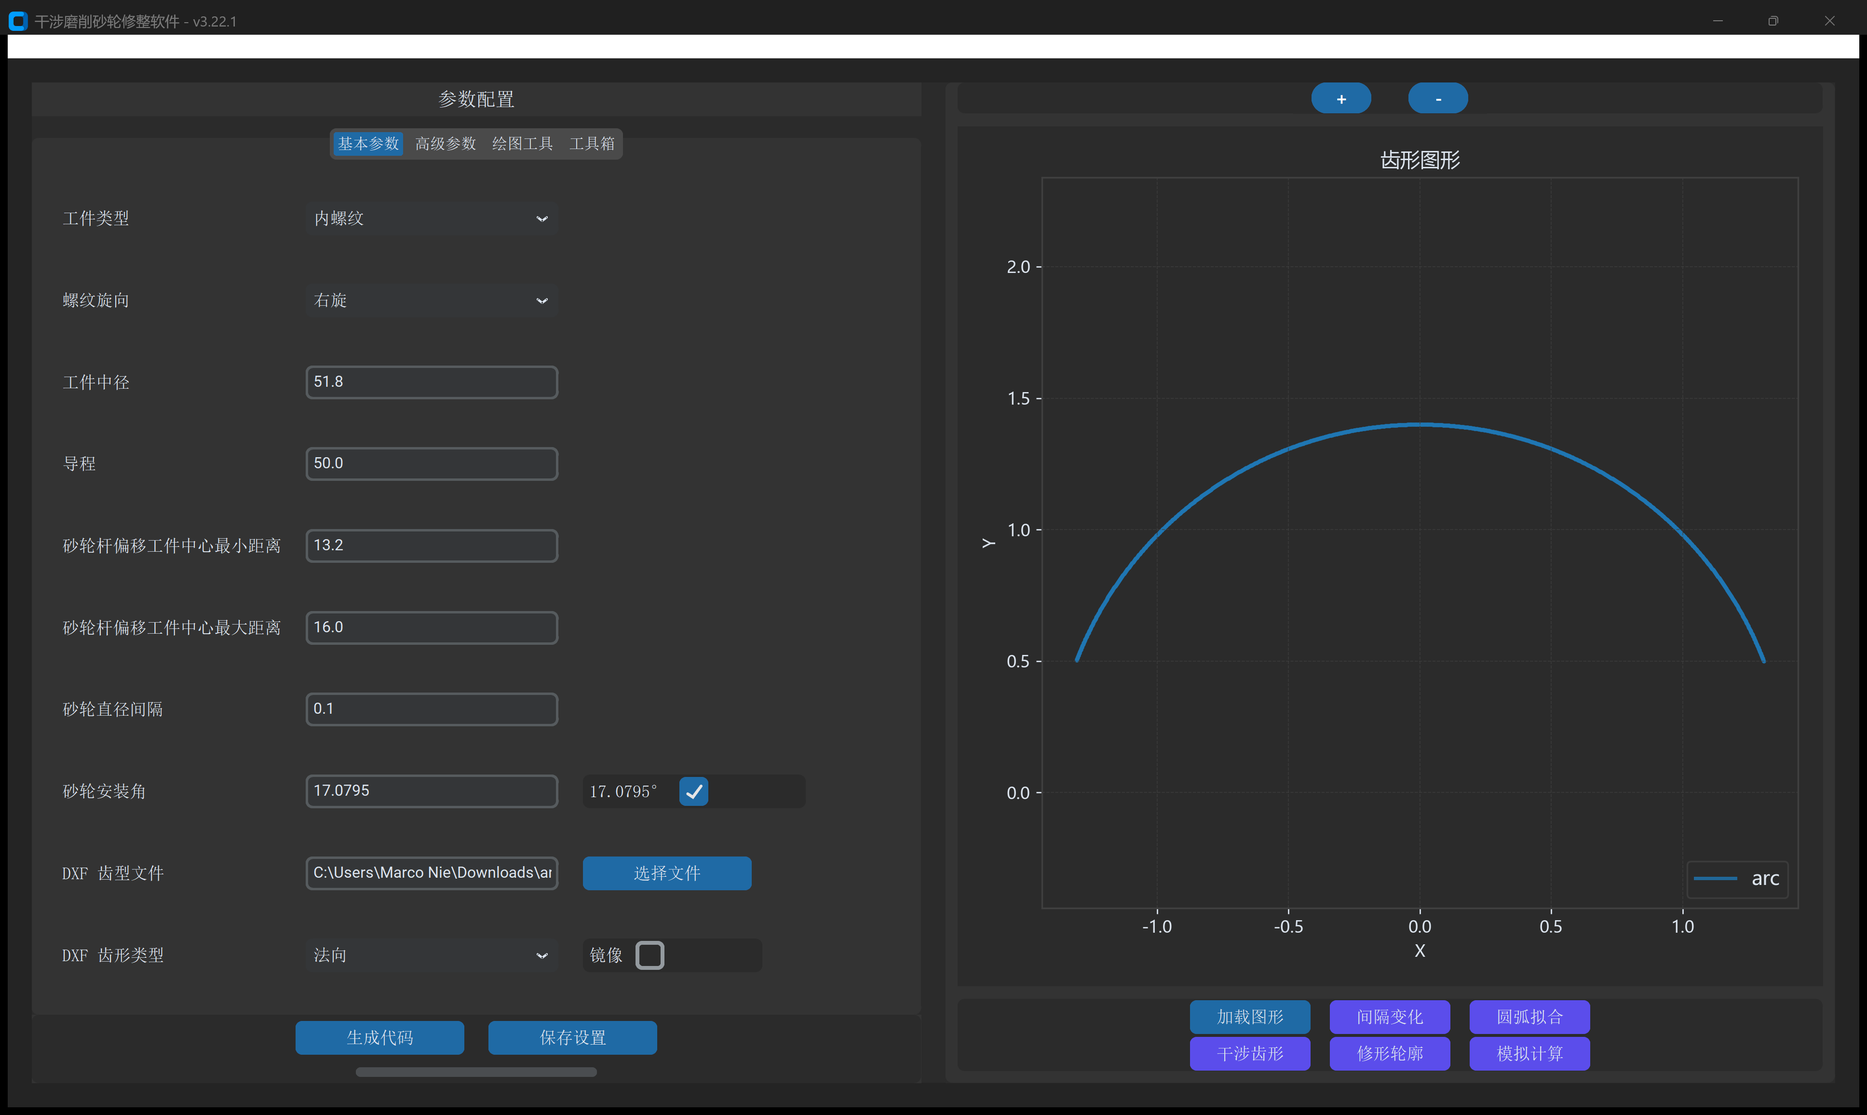
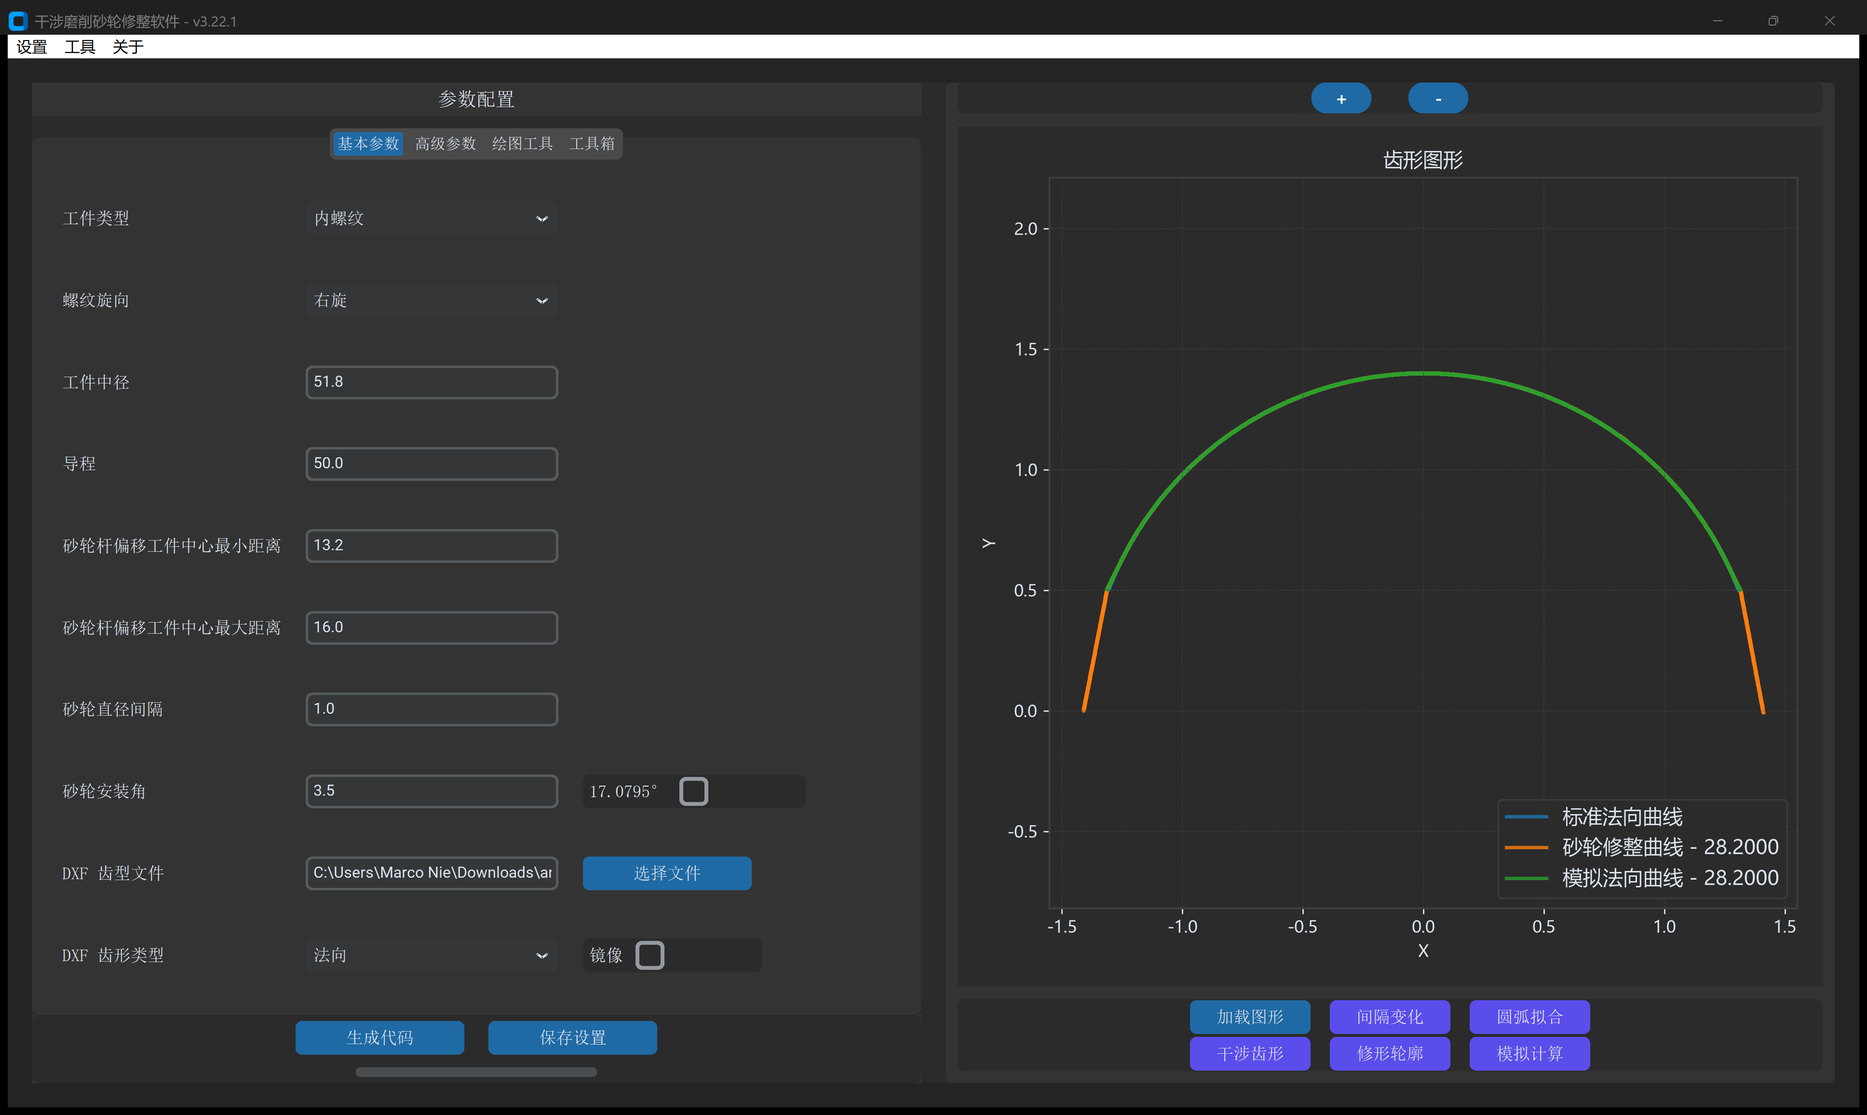
fix(docs): fix canvas views images and align descriptions with real IGD software calculations
- Fix canvas placeholder '文件不存在' in ui_overview_annotated.png by configuring authentic double arc parameters (mid_dia=51.8, work_lead=50.0, gan_angle=3.5)
- Correct callout coordinates and badges in ui_overview_annotated.png to prevent text collision
- Re-capture real, distinct simulation plots for all 6 canvas views (view_1 to view_6)
- Align canvas_views.md text and check points 1:1 with genuine plot legends, DXF files, and G2/G3 arc fitting data
- Update ui_overview.md to accurately document IGD custom canvas controls and 7 core layout zones

diff --git a/tools/capture_views_and_overview.py b/tools/capture_views_and_overview.py
@@ -1,0 +1,169 @@
+import sys
+import os
+import time
+import threading
+import json
+import ctypes
+from ctypes import wintypes
+import traceback
+import numpy as np
+from PIL import Image, ImageDraw, ImageFont
+
+IGD_DIR = r"C:\Users\Marco Nie\Development\WorkProgram\InterferenceGrindingDressing"
+GUIDE_DIR = r"C:\Users\Marco Nie\Development\WorkProgram\InterferenceGrindingDressing-UserGuide"
+IMAGES_DIR = os.path.join(GUIDE_DIR, "images")
+USER_IGD_DIR = os.path.expanduser("~/.igd")
+PART_DIR = os.path.join(USER_IGD_DIR, "PartsLibrary", "五分厂GQ51.8X50")
+
+os.chdir(IGD_DIR)
+sys.path.insert(0, IGD_DIR)
+
+import library.ui_config as uic
+import library.main_window as mw
+
+# Setup config
+with open(os.path.join(PART_DIR, "igd_config_main.json"), "r", encoding="utf-8") as f:
+    cfg = json.load(f)
+
+cfg["mid_dia"] = 51.8
+cfg["work_lead"] = 50.0
+cfg["gan_angle"] = 3.5
+cfg["step_dia"] = 1.0
+cfg["angle_checkbox_state"] = 0
+cfg["save_path"] = r"C:\Users\Marco Nie\Downloads"
+cfg["dxf_file"] = r"C:\Users\Marco Nie\Downloads\arc.dxf"
+cfg["dresser_r_right"] = 0.98
+cfg["dresser_r_left"] = 0.98
+
+with open(os.path.join(USER_IGD_DIR, "igd_config_main.json"), "w", encoding="utf-8") as f:
+    json.dump(cfg, f, indent=4)
+
+mw.UI_CONFIG = uic.full
+mw.apply_app_theme()
+mw.g_plot_libs_preloaded = True
+
+def capture_window(hwnd, filepath):
+    user32 = ctypes.windll.user32
+    gdi32 = ctypes.windll.gdi32
+    rect = wintypes.RECT()
+    user32.GetWindowRect(hwnd, ctypes.byref(rect))
+    w = rect.right - rect.left
+    h = rect.bottom - rect.top
+    hwndDC = user32.GetWindowDC(hwnd)
+    mfcDC = gdi32.CreateCompatibleDC(hwndDC)
+    saveBitMap = gdi32.CreateCompatibleBitmap(hwndDC, w, h)
+    gdi32.SelectObject(mfcDC, saveBitMap)
+    user32.PrintWindow(hwnd, mfcDC, 2)
+    bmpinfo = bytearray(40)
+    ctypes.c_uint32.from_buffer(bmpinfo, 0).value = 40
+    ctypes.c_int32.from_buffer(bmpinfo, 4).value = w
+    ctypes.c_int32.from_buffer(bmpinfo, 8).value = -h
+    ctypes.c_uint16.from_buffer(bmpinfo, 12).value = 1
+    ctypes.c_uint16.from_buffer(bmpinfo, 14).value = 32
+    ctypes.c_uint32.from_buffer(bmpinfo, 16).value = 0
+    buffer = bytearray(w * h * 4)
+    gdi32.GetDIBits(mfcDC, saveBitMap, 0, h, (ctypes.c_char * len(buffer)).from_buffer(buffer), bytes(bmpinfo), 0)
+    gdi32.DeleteObject(saveBitMap)
+    gdi32.DeleteDC(mfcDC)
+    user32.ReleaseDC(hwnd, hwndDC)
+    
+    img = Image.frombuffer("RGBA", (w, h), buffer, "raw", "BGRA", 0, 1).convert("RGB")
+    img.save(filepath)
+    print(f"Captured {os.path.basename(filepath)} ({w}x{h})", flush=True)
+    return img
+
+def annotate_overview(raw_img_path, out_img_path):
+    im = Image.open(raw_img_path)
+    w, h = im.size
+    target_w = 1920
+    target_h = int(target_w * h / w)
+    im_resized = im.resize((target_w, target_h), Image.Resampling.LANCZOS)
+    draw = ImageDraw.Draw(im_resized)
+    
+    try:
+        font_b = ImageFont.truetype("msyhbd.ttc", 15)
+    except:
+        font_b = ImageFont.load_default()
+
+    # Exact bounding boxes measured on 1920x1146
+    items = [
+        ("① 顶部菜单栏", (12, 38, 300, 68), (18, 12), "#2563eb"),
+        ("② 四大主功能选项卡", (20, 72, 880, 118), (480, 78), "#3b82f6"),
+        ("③ 核心几何与工艺参数配置区", (20, 124, 1060, 1005), (35, 130), "#0284c7"),
+        ("④ 主执行与配置保存按钮", (40, 1015, 1040, 1072), (50, 1022), "#059669"),
+        ("⑤ 加密狗状态与计算进度", (20, 1080, 480, 1135), (25, 1085), "#0d9488"),
+        ("⑥ 交互式矢量绘图画布", (1075, 70, 1905, 1050), (1085, 78), "#dc2626"),
+        ("⑦ 6 大计算结果视图切换栏", (1075, 1055, 1905, 1135), (1085, 1060), "#7c3aed"),
+    ]
+
+    for text, (x1, y1, x2, y2), (px, py), col in items:
+        draw.rounded_rectangle([x1, y1, x2, y2], radius=6, outline=col, width=3)
+        bbox = draw.textbbox((px, py), text, font=font_b)
+        pad_x, pad_y = 8, 4
+        pill_rect = [bbox[0]-pad_x, bbox[1]-pad_y, bbox[2]+pad_x, bbox[3]+pad_y]
+        draw.rounded_rectangle(pill_rect, radius=5, fill="#dc2626", outline="white", width=1)
+        draw.text((px, py), text, fill="white", font=font_b)
+
+    im_resized.save(out_img_path, quality=95)
+    print(f"Saved annotated overview: {out_img_path}", flush=True)
+
+def run():
+    try:
+        print("Waiting for plot window...", flush=True)
+        while not mw.plot_window_loaded:
+            time.sleep(0.1)
+        print("Plot window loaded!", flush=True)
+        time.sleep(1.0)
+        
+        hwnd = ctypes.windll.user32.GetParent(mw.root.winfo_id()) or mw.root.winfo_id()
+        
+        # 1. Switch to Tab 1
+        mw.root.after(0, lambda: mw.tabview.set(mw.current_language["tabview_1"]))
+        time.sleep(0.5)
+        
+        # Fix entry_gan_angle to 3.5
+        mw.entry_gan_angle.delete(0, "end")
+        mw.entry_gan_angle.insert(0, "3.5")
+        if mw.angle_checkbox.get() == 1:
+            mw.angle_checkbox.deselect()
+
+        # 2. Capture all 6 views with real curves
+        views = [
+            ("view_1_load_plot.png", "import_dxf"),
+            ("view_2_interval_change.png", "interval_change"),
+            ("view_3_fit_arcs.png", "fit_arcs"),
+            ("view_4_interference.png", "interference"),
+            ("view_5_dress_plot.png", "dress"),
+            ("view_6_simulate_plot.png", "simulator_calc"),
+        ]
+        
+        for fname, action in views:
+            print(f"Plotting {action} -> {fname}...", flush=True)
+            evt = threading.Event()
+            mw.root.after(0, lambda a=action: mw.plot_window_1(a, on_complete=evt.set))
+            ok = evt.wait(6.0)
+            print(f"  {action} finished (ok={ok})", flush=True)
+            time.sleep(0.8)
+            capture_window(hwnd, os.path.join(IMAGES_DIR, fname))
+
+        # 3. ui_tab1_basic_params.png (with simulator_calc)
+        print("Capturing ui_tab1_basic_params.png...", flush=True)
+        capture_window(hwnd, os.path.join(IMAGES_DIR, "ui_tab1_basic_params.png"))
+
+        # 4. ui_overview_annotated.png
+        print("Creating ui_overview_annotated.png...", flush=True)
+        clean_path = os.path.join(IMAGES_DIR, "clean_overview_temp.png")
+        capture_window(hwnd, clean_path)
+        annotate_overview(clean_path, os.path.join(IMAGES_DIR, "ui_overview_annotated.png"))
+        if os.path.exists(clean_path):
+            os.remove(clean_path)
+
+        print("ALL 6 VIEWS AND OVERVIEW CAPTURED SUCCESSFULLY!", flush=True)
+    except Exception as e:
+        print("ERROR IN RUN:", flush=True)
+        traceback.print_exc()
+    finally:
+        mw.root.after(200, mw.root.destroy)
+
+threading.Thread(target=run, daemon=True).start()
+mw.show_main_window()

diff --git a/4_plots_and_outputs/canvas_views.md b/4_plots_and_outputs/canvas_views.md
@@ -1,59 +1,68 @@
 # 4.1 右侧交互画布与 6 大计算结果视图详解
 
-每次在 `基本参数` 或 `高级参数` 中执行 **`生成代码`** 成功后，右下角的 6 个结果视图按钮将依次激活。强烈建议操作人员按顺序点击检视图形质量，作为上机前的数字化虚拟试磨审核。
+每次在 `基本参数` 或 `高级参数` 中执行 **`生成代码`** 成功后，右下角的 6 个结果视图按钮将依次激活。强烈建议工艺人员按顺序点击检视图形质量，作为上机前的数字化虚拟试磨审核。
 
 ---
 
 ## 视图 1：`加载图形`（检查导入的目标齿形）
 
-显示软件从 DXF 文件中解析出的目标截面曲线：
+直接解析 `基本参数` 中指定的 DXF 齿型文件（如 `arc.dxf`），在画布上绘制目标截面轮廓：
 
 ![视图 1：加载图形实机计算截图](../images/view_1_load_plot.png)
 
+- **显示要素与图例**：
+  - 图例标注为 DXF 文件名（如 `arc`）。
+  - 横轴 $X$（对称齿槽以 $X=0$ 为中心），纵轴 $Y$（工件分度圆/中径基准线 $Y=0$）。
 - **检查要点**：
-  - 确认曲线光滑完整、无首尾悬空折返或多余图元。
-  - 核验 $Y=0$ 位于中径基准线，对称齿槽以 $X=0$ 为中心。
-  - 对于非对称型线，确认左右朝向符合机床装夹方向（必要时勾选 `镜像`）。
+  - **曲线连续性**：确认齿形光滑完整，无自交、反折、多余碎线或悬空断裂。
+  - **基准对齐**：核验 $Y=0$ 处齿槽宽度与图纸中径公称尺寸一致。
+  - **装夹朝向**：对于非对称齿槽，确认型线左右方向与机床实际装夹对齐（必要时在参数面板勾选 `镜像`）。
+  - **双圆弧角度标注**：对于双圆弧齿型，系统支持在画布上叠加原点夹角标注，直观校验法向接触角与齿形对称性。
 
 ---
 
 ## 视图 2：`间隔变化`（砂轮全寿命周期修整廓形族）
 
-展示由最大工作砂轮直径至最小报废砂轮直径之间，每隔一个 `砂轮直径间隔` 计算出的全套砂轮修整截面曲线簇：
+载入多直径计算生成的误差变化量数据（`dxf_compare_two_dia_errors.dxf`），展示砂轮外径随磨损减小时修整截面法向变化规律：
 
 ![视图 2：间隔变化实机计算截图](../images/view_2_interval_change.png)
 
+- **显示要素与图例**：
+  - 图例标注为 `直径间隔 1.0 修整曲线变化量`（根据设定的 `砂轮直径间隔` 自动格式化）。
+  - 纵轴反映相邻砂轮直径档位之间的法向形状修正增量。
 - **检查要点**：
-  - 观察各阶梯曲线是否呈现平顺、均匀的曲率收敛。
-  - 最外侧曲线对应新砂轮，最内侧红色实线对应最小砂轮极限。
-  - 检查内侧红线是否存在尖锐奇异点（若有，说明最小砂轮直径超出了无干涉极限）。
+  - **平滑收敛性**：变化量曲线全程平顺光滑，无突变奇异尖峰或剧烈震荡。
+  - **修正灵敏度**：变化量数值直观反映了大导程螺旋空间包络在不同砂轮直径下的干涉敏感程度。
 
 ---
 
-## 视图 3：`圆弧拟合`（G2/G3 圆弧逼近与法向残差分布）
+## 视图 3：`圆弧拟合`（G2/G3 相切圆弧逼近与分段结构）
 
-采用上下双子图结构对自适应双切圆弧插补精度进行严密审核：
+载入数控插补拟合文件（`dxf_dress_contour_curve_fit_arcs_*.dxf`），将连续复杂的自由修整轮廓智能拆解为机床可直接执行的相切圆弧与直线段：
 
 ![视图 3：圆弧拟合实机计算截图](../images/view_3_fit_arcs.png)
 
-- **上方子图（圆弧插补段分布）**：
-  - 红色与蓝色交替标示各段 G2/G3 相切圆弧，蓝点表示圆弧之间的平滑切点（G 代码节点）。
-  - 拐弯曲率剧烈处自动加密，平缓处自动稀疏。
-- **下方子图（法向拟合残差分布）**：
-  - 纵轴单位为微米（$\mu\text{m}$），显示沿齿形横坐标的实际法向拟合误差。
-  - 确认蓝色残差曲线全程落在上下两条红色虚线（设定的 `拟合误差` 公差带，如 $\pm 1\ \mu\text{m}$）内部。
+- **显示要素与图例**：
+  - 各圆弧段以鲜明多色独立着色呈现，并在图例中逐一列出各段的精确拟合半径（如 `R1 = 2.3796`、`R2 = 0.9864`、`R3 = 2.3799`、`R4 = 3.8054`、`R5 = 2.3058`、`R6 = 0.9889` 以及 `直线段 1`、`直线段 2`、`直线段 3`）。
+- **检查要点**：
+  - **分段自适应性**：曲率变化剧烈处（齿底过渡区）自动加密圆弧分段，平缓区自动合并为大半径圆弧或直线，兼顾加工精度与加工平顺度。
+  - **相切连续度**：各圆弧段与直线段平滑相切，切点位置无台阶错位。
+  - **残差公差带深度查验**：若需审核微米级法向逼近残差，可查阅计算输出目录中的交互式分析报告 `plot_dress_contour_curve_fit_arcs_*.html` 与参数清单 `info_*.txt`。
 
 ---
 
 ## 视图 4：`干涉齿形`（包络修正后的净砂轮成形截面）
 
-检视经过三维螺旋空间包络方程求解、消除了大导程空间干涉，并叠加了齿端延长与倒圆后的理论净砂轮廓形：
+叠加对比理论工件法向截面与三维螺旋包络计算求解出的净砂轮成形廓形：
 
 ![视图 4：干涉齿形实机计算截图](../images/view_4_interference.png)
 
+- **显示要素与图例**：
+  - **`标准法向曲线`**（工件理论截面轮廓）。
+  - **`砂轮修整曲线 - 28.2000`**（消除大导程空间螺旋干涉后的成形砂轮截面廓形）。
 - **检查要点**：
-  - 用顶部放大镜框选齿根过渡处，确认圆弧过渡光滑相切。
-  - 检视齿高延长高度与内收斜坡平整度。
+  - **包络相切形态**：砂轮截面在有效工作齿深范围内与工件法向齿形保持包络切触。
+  - **齿顶延长与齿根倒圆**：确认齿顶切线延长高度合理，齿根过渡倒圆平滑，确保磨削时既切满全齿深，又不划伤非加工表面。
 
 ---
 
@@ -63,19 +72,25 @@
 
 ![视图 5：修形轮廓实机计算截图](../images/view_5_dress_plot.png)
 
+- **显示要素与图例**：
+  - **`修整轮廓曲线 - 28.2000`**（叠加金刚石修整滚轮半径 $R$ 后的机床数控走刀刀心轨迹）。
+  - **`砂轮修整曲线 - 28.2000`**（带平移矢量的基准砂轮廓形）。
 - **检查要点**：
-  - **红色曲线**：左侧修整轮走刀轨迹。
-  - **蓝色曲线**：右侧修整轮走刀轨迹。
-  - 检查左右两侧走刀在齿顶中心处的交汇过渡，确保无漏修台阶或齿根干涉。
+  - **等距偏移精度**：修整刀心轨迹与砂轮截面全程严格保持滚轮半径（如 $R = 0.98\ \text{mm}$）的法向等距偏移。
+  - **齿槽交汇过渡**：左右两侧走刀路径在齿底/齿顶处交汇顺畅，无逆向交叉或漏修台阶。
 
 ---
 
-## 视图 6：`模拟计算`（机床实际 G 代码走刀轨迹还原）
+## 视图 6：`模拟计算`（数字化全真虚拟试磨复核）
 
-直接解析即将写入 `.SPF` 或 `O2010` 的多阶梯数控代码，还原机床坐标系下的真实走刀路径簇：
+数字化虚拟试磨的核心审核依据，同屏叠加三组关键曲线：
 
 ![视图 6：模拟计算实机计算截图](../images/view_6_simulate_plot.png)
 
+- **显示要素与图例**：
+  - **`标准法向曲线`**：原始工件理论设计轮廓。
+  - **`砂轮修整曲线 - 28.2000`**：计算出的成形砂轮实际修整轮廓。
+  - **`模拟法向曲线 - 28.2000`**：由修整后砂轮反向虚拟磨削出的工件法向截面。
 - **检查要点**：
-  - 核对图形开口朝向与机床 `进刀方向`（正向 / 负向）严格对齐。
-  - 确认全部直径档位的修整走刀轨迹均匀有序，无跳跃、无飞圆。
+  - **曲线高度吻合**：`模拟法向曲线` 必须与 `标准法向曲线` 完全重合，无目视可见分离。
+  - **干涉消除判据**：两条曲线严丝合缝即证明大导程空间螺旋干涉已被完全消除，生成的 NC 代码可安全下发至机床加工。

diff --git a/1_getting_started/ui_overview.md b/1_getting_started/ui_overview.md
@@ -6,27 +6,30 @@
 
 ---
 
-## 一、主界面五大功能分区速览
+## 一、主界面七大核心功能分区速览
 
 - **① 顶部系统菜单栏**：
   - **`设置`**：支持 `中文` / `English` 实时切换（无需重启）、`检查更新` 与查看 `更新日志`。
   - **`工具`**：打开 `零件库` 独立管理窗口，实现工艺数据与 DXF 一键归档导入。
   - **`关于`**：访问官方网站、查看用户手册及当前版本信息。
-- **② 左侧主选项卡（四大工作台）**：
+- **② 四大主功能选项卡（核心工作台）**：
   - **`基本参数`**：定义工件螺旋面、导入目标 DXF、设定砂轮范围与安装角。
   - **`高级参数`**：分为 `初始化配置`（滚轮补偿/防过切/圆弧拟合）与 `程序信息`（数控系统模板与修整轴）。
   - **`绘图工具`**：参数化生成 `螺纹`、`XY 点位文件`、`齿轮`、`蜗杆` 标准齿形 DXF。
   - **`工具箱`**：集成 `最大偏移`、`滚道曲线计算`、`DXF 处理`、`曲线转换`、`曲线误差对比`、`车刀计算` 6 大辅助工具。
-- **③ 左下角主操作与状态指示区**：
-  - 在 `基本参数` / `高级参数` 下，显示主操作按钮 **`生成代码`**。
-  - 在 `绘图工具` / `工具箱` 各子模块下，自动联动为对应执行按钮（如 `生成齿形文件`、`生成工件截面曲线` 等）。
-  - 底部状态栏实时显示当前授权状态（如 `🟢 加密狗授权已激活`）。
-- **④ 右侧交互式绘图画布**：
-  - 顶部集成标准 Matplotlib 绘图工具栏（复位、撤销、平移拖曳、局部框选放大、高清保存图片）。
-  - 画布右上角实时跟踪当前鼠标十字光标的绝对坐标 $(X, Y)$。
-- **⑤ 右下角 6 大结果视图切换栏**：
-  - 计算完成后，提供 **`加载图形`**、**`间隔变化`**、**`圆弧拟合`**、**`干涉齿形`**、**`修形轮廓`**、**`模拟计算`** 六大快捷视图。
-  - 在 `滚道曲线计算` 与 `曲线误差对比` 中，还会自动浮现专属的紫色 **`误差曲线`** 按钮。
+- **③ 核心几何与工艺参数配置区**：
+  - 承载当前选项卡下的全部几何尺寸、修整工艺与公差补偿输入项。
+- **④ 主执行与配置保存按钮**：
+  - **`生成代码`**：触发多核并行计算、消除大导程螺旋干涉并导出 NC 代码文件与 DXF 轮廓。
+  - **`保存设置`**：固化当前界面的各项输入参数至本地配置文件。
+- **⑤ Sentinel 加密狗状态与多核计算进度**：
+  - 底部状态栏实时指示硬件加密狗授权状态（如 `🟢 加密狗授权已激活`）及大导程多阶梯砂轮并行计算进度条。
+- **⑥ 交互式矢量绘图画布**：
+  - 采用高精度矢量渲染，动态显示导入齿形、砂轮截面、拟合圆弧与模拟成形轮廓。
+  - 实时跟踪当前鼠标十字光标的绝对坐标 $(X, Y)$ 与切线原点夹角。
+- **⑦ 6 大计算结果视图切换栏**：
+  - 计算成功后依次激活 **`加载图形`**、**`间隔变化`**、**`圆弧拟合`**、**`干涉齿形`**、**`修形轮廓`**、**`模拟计算`** 6 大快捷视图。
+  - 在 `滚道曲线计算` 与 `曲线误差对比` 等工具模块中，还会自动联动为专属的紫色 **`误差曲线`** 按钮。
 
 ---
 
@@ -50,9 +53,12 @@
 
 ---
 
-## 三、右侧绘图画布快捷操作规范
+## 三、右侧绘图画布交互操作规范
 
-- **框选放大**：点击顶部放大镜图标，在画布上按住鼠标左键拖动框选目标区域（例如放大至微米级视野检查齿根倒圆过渡）。
-- **平移视图**：点击十字方向图标，按住鼠标左键自由拖动画布。
-- **一键复位**：点击最左侧“主页”房屋图标，立即恢复全景自适应比例居中。
-- **高分辨率存图**：点击软盘图标，可将当前分析视图直接导出为 PNG、SVG 或 PDF 图档。
+- **滚轮缩放**：滚动鼠标滚轮可平滑放大或缩小画布视图（以鼠标指针所在位置为中心缩放）。
+- **鼠标左键拖拽**：按住鼠标左键并在画布上移动，即可自由平移视图位置。
+- **双击复位**：在画布任意位置双击鼠标左键，立即恢复最佳比例居中显示。
+- **顶部微调工具栏**：
+  - **`[-]`**：阶梯缩小视图。
+  - **`[+]`**：阶梯放大视图。
+- **悬停实时坐标拾取**：鼠标移动至齿形轮廓任意位置，画布右上角将动态浮现悬停坐标标签，显示当前的精确绝对坐标 $(X, Y)$ 及相对原点夹角。
